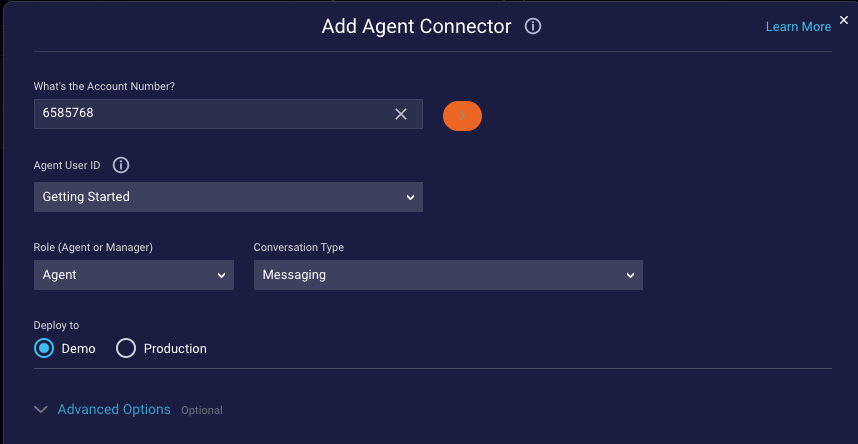
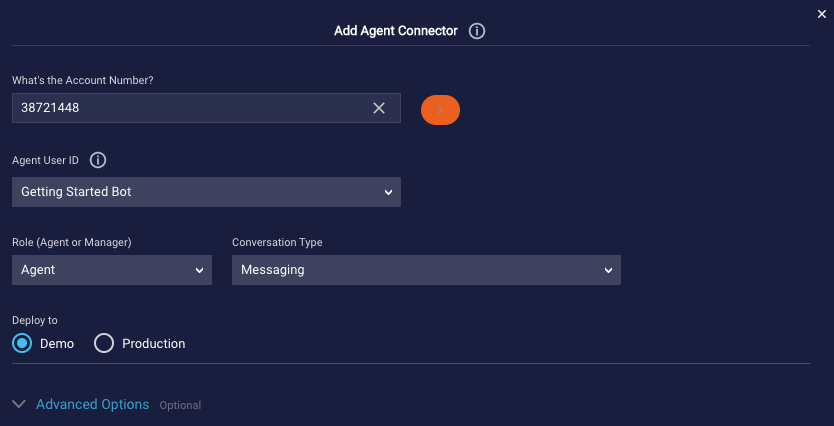
Validate and copy edits

Changed region(s): [[0.0, 0.0, 1.0, 1.0], [0.4365, 0.2136, 0.5612, 0.3052]]

diff --git a/pages/Documents/ConversationalAI/Tutorials&Guides/GettingStartedWithBotBuilding/deploy-the-bot.md b/pages/Documents/ConversationalAI/Tutorials&Guides/GettingStartedWithBotBuilding/deploy-the-bot.md
@@ -10,7 +10,7 @@ permalink: tutorials-guides-getting-started-with-bot-building-deploy-the-bot.htm
 indicator: both
 ---
 
-In this tutorial, you walk through how to link your bot to Conversational Cloud, ending with an integration that transfers to a human agent.
+In this tutorial, you walk through how to link your bot to Conversational Cloud.
 
 ### Watch the video
 
@@ -19,13 +19,13 @@ In this tutorial, you walk through how to link your bot to Conversational Cloud,
 
 ### Step 13: Create a bot user
 
-In this step, you create a new user agent and skill for the bot, create a new engagement for web messaging, and connect our bot agent to the engagement.
+In this step, you create a new user agent and skill for the bot, create a new engagement for web messaging, and connect the bot agent to the engagement.
 
 1. Click on the User Management icon <img style="width:25px" src="img/ConvoBuilder/getstartedtutorial/icon_user_mgmt.png"> along the left side of the Conversational Cloud page. 
 
     <img class="fancyimage" style="width:400px" src="img/ConvoBuilder/getstartedtutorial/users_tab.png">
 
-2. From the Users tab, select the **+ Add user** button from the bottom left of the page.
+2. On the Users tab, click **+ Add user** in the lower-left corner.
 3. Fill out the **Add user** form with the following user details:
 
     * **User type**: Bot
@@ -35,21 +35,21 @@ In this step, you create a new user agent and skill for the bot, create a new en
     * **Name**: Getting Started Bot
     * **Choose login method**: API key
     * **Api key**: Generate API key
-    * **Assign Profile**: Agent
-    * **Skills**: bot
+    * **Assignment > Assign Profile**: Agent
+    * **Skills**: Bot
 	
     {: .important}
-    By typing in the skill name **bot**, a new skill with the name **bot** will be created.
+    By typing in the skill name **Bot**, a new skill with the name **bot** is created.
 
 4. Click **Save**.
 
 ### Step 14: Create an engagement
 
-1. Click on the **Campaign Builder** icon <img style="width:25px" src="img/ConvoBuilder/getstartedtutorial/icon_campaign_builder.png"> along the left side of the Conversational Cloud page. 
-2. Click **+ Add Campaign** at the bottom of the page.
+1. Click the Campaign Builder icon <img style="width:25px" src="img/ConvoBuilder/getstartedtutorial/icon_campaign_builder.png"> along the left side of the Conversational Cloud page. 
+2. Click **+ Add Campaign** in the lower-left corner.
 3. On the page that appears, specify the following:
 
-    * **Campaign name**: Enter "Getting Started"
+    * **Campaign name**: Enter "Getting Started."
     * **Campaign goal**: Click this, select "Interact with consumers" on the page that appears, and click **Done**.
     * **Engagement**: Click **+ Add engagement**. For the engagement source, select "Web." In the gallery that appears next, select a messaging template, and click **Next**. In the resulting Engagement Settings, select "Messaging" for the **Conversation type**. For **Routing**, select "Specific skill," and then select the "Bot" skill.
 
@@ -65,11 +65,11 @@ In this step, you create a new user agent and skill for the bot, create a new en
 ### Step 15: Add the agent connector
 
 1. Navigate back to the Getting Started bot in Conversation Builder.
-2. Select the **Agent Connectors** link from the menu bar.
+2. Click **Agent Connectors** in the menu bar in the upper-left corner.
 3. Click **Add Agent Connector** in the upper-right corner.
 4. In the Add Agent Connector dialog box, specify the following based on the bot user you created.
 
-    * **Agent User ID**: Getting Started
+    * **Agent User ID**: Getting Started Bot
     * **Role**: Agent
     * **Conversation Type**: Messaging
     * **Deploy to**: Demo
@@ -83,7 +83,7 @@ In this step, you create a new user agent and skill for the bot, create a new en
 
     It might take a few minutes for the connection to be established.
 
-    To view more details about the connector, move your mouse over the i icon beside Details.
+    To view more details about the connector, move your mouse over the "i" icon beside **Details**.
 
     {: .important}
     LivePerson recommends that, when you connect your bot to Conversational Cloud in a production environment, you deploy at least two Conversational Cloud agent connectors for a single bot. This is so the second can serve to support failover if the first goes down. Additionally, if you have traffic considerations, you might want to deploy three or more. A good baseline is no more than 50 concurrent conversations per agent connector (e.g., deploy 4 connectors to support 200 concurrent conversations).
@@ -98,9 +98,9 @@ In this step, you'll be testing with Messaging, so you'll be using [this test pa
     <img class="fancyimage" style="width:800px" src="img/ConvoBuilder/getstartedtutorial/messaging_test_page.png">
 
 2. Enter your account number and optionally a username (just your first name will do fine), and then click **Update**.
-3. After a moment, you will see a Messaging "call to action," which corresponds to what we selected in the Campaign Builder. Click on the Messaging call to action.
-4. Start the bot by messaging ‘hi’ or ‘hello’.
-5. Test out your bot functionality as you would in the Previewer.
+3. After a moment, you will see a Messaging "call to action," which corresponds to what we selected in the Campaign Builder. Click the Messaging call to action.
+4. Start the bot by entering ‘hi’ or ‘hello.’
+5. Test the bot's functionality as you would in Conversation Builder's Preview.
 
     <img class="fancyimage" style="width:350px" src="img/ConvoBuilder/getstartedtutorial/deploy_test.png">
 
